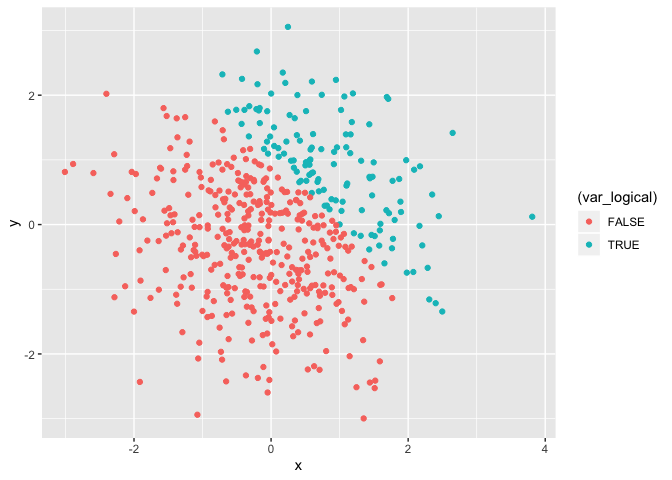
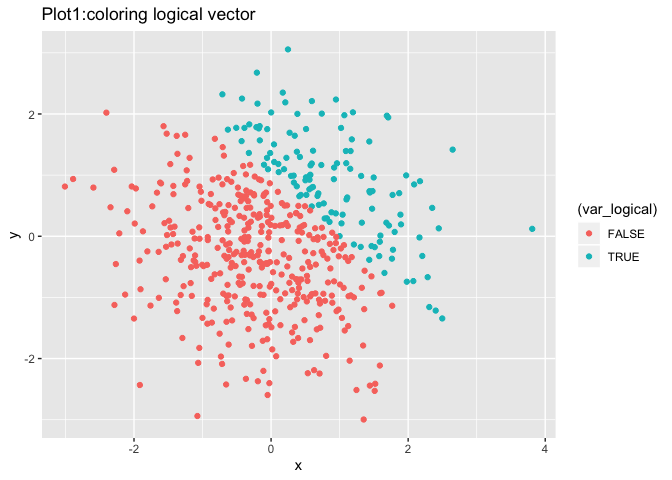
add titles to the three scatterplots

diff --git a/p8105_hw1_ra2965.md b/p8105_hw1_ra2965.md
@@ -35,13 +35,13 @@ hw1_df = tibble(
 mean(pull(hw1_df, vec_numeric))
 ```
 
-    ## [1] 0.4215801
+    ## [1] -0.03448977
 
 ``` r
 mean(pull(hw1_df, vec_logical))
 ```
 
-    ## [1] 0.625
+    ## [1] 0.375
 
 ``` r
 mean(pull(hw1_df, vec_char))
@@ -83,7 +83,7 @@ product_fac_random = convert_log_fac*pull(hw1_df, vec_numeric)
 
 ``` r
 convert_fac_num = as.numeric(convert_log_fac)
-produc_num_num = convert_fac_num*pull(hw1_df, vec_numeric)
+produc_num_random = convert_fac_num*pull(hw1_df, vec_numeric)
 ```
 
 ‘\*’ is not meaningful for factors so I cannot get the product of factor vector and the random sample.
@@ -116,25 +116,28 @@ Scatterplots of y vs x:
 In the three plots, color points used three different types of variable: logical, muneric, factor
 
 ``` r
-ggplot(plot_df, aes(x = x, y = y, color = (var_logical))) + geom_point()
-```
-
-![](p8105_hw1_ra2965_files/figure-markdown_github/unnamed-chunk-4-1.png)
-
-``` r
+plot_logical = ggplot(plot_df, aes(x = x, y = y, color = (var_logical))) + geom_point()
 ggsave("plot_logical.pdf")
 ```
 
     ## Saving 7 x 5 in image
 
 ``` r
-ggplot(plot_df, aes(x = x, y = y, color = (var_num))) + geom_point()
+print(plot_logical + ggtitle("Plot1:coloring logical vector"))
+```
+
+![](p8105_hw1_ra2965_files/figure-markdown_github/unnamed-chunk-4-1.png)
+
+``` r
+plot_num = ggplot(plot_df, aes(x = x, y = y, color = (var_num))) + geom_point()
+print(plot_num + ggtitle("Plot2:coloring numeric vector"))
 ```
 
 ![](p8105_hw1_ra2965_files/figure-markdown_github/unnamed-chunk-4-2.png)
 
 ``` r
-ggplot(plot_df, aes(x = x, y = y, color = (var_fac))) + geom_point()
+plot_factor = ggplot(plot_df, aes(x = x, y = y, color = (var_fac))) + geom_point()
+print(plot_factor + ggtitle("Plot3:coloring factor vector"))
 ```
 
 ![](p8105_hw1_ra2965_files/figure-markdown_github/unnamed-chunk-4-3.png) For the scatterplot in which color points using the logical variabl, the FALSE points are colored as red, and the TRUE points are colored as green.
